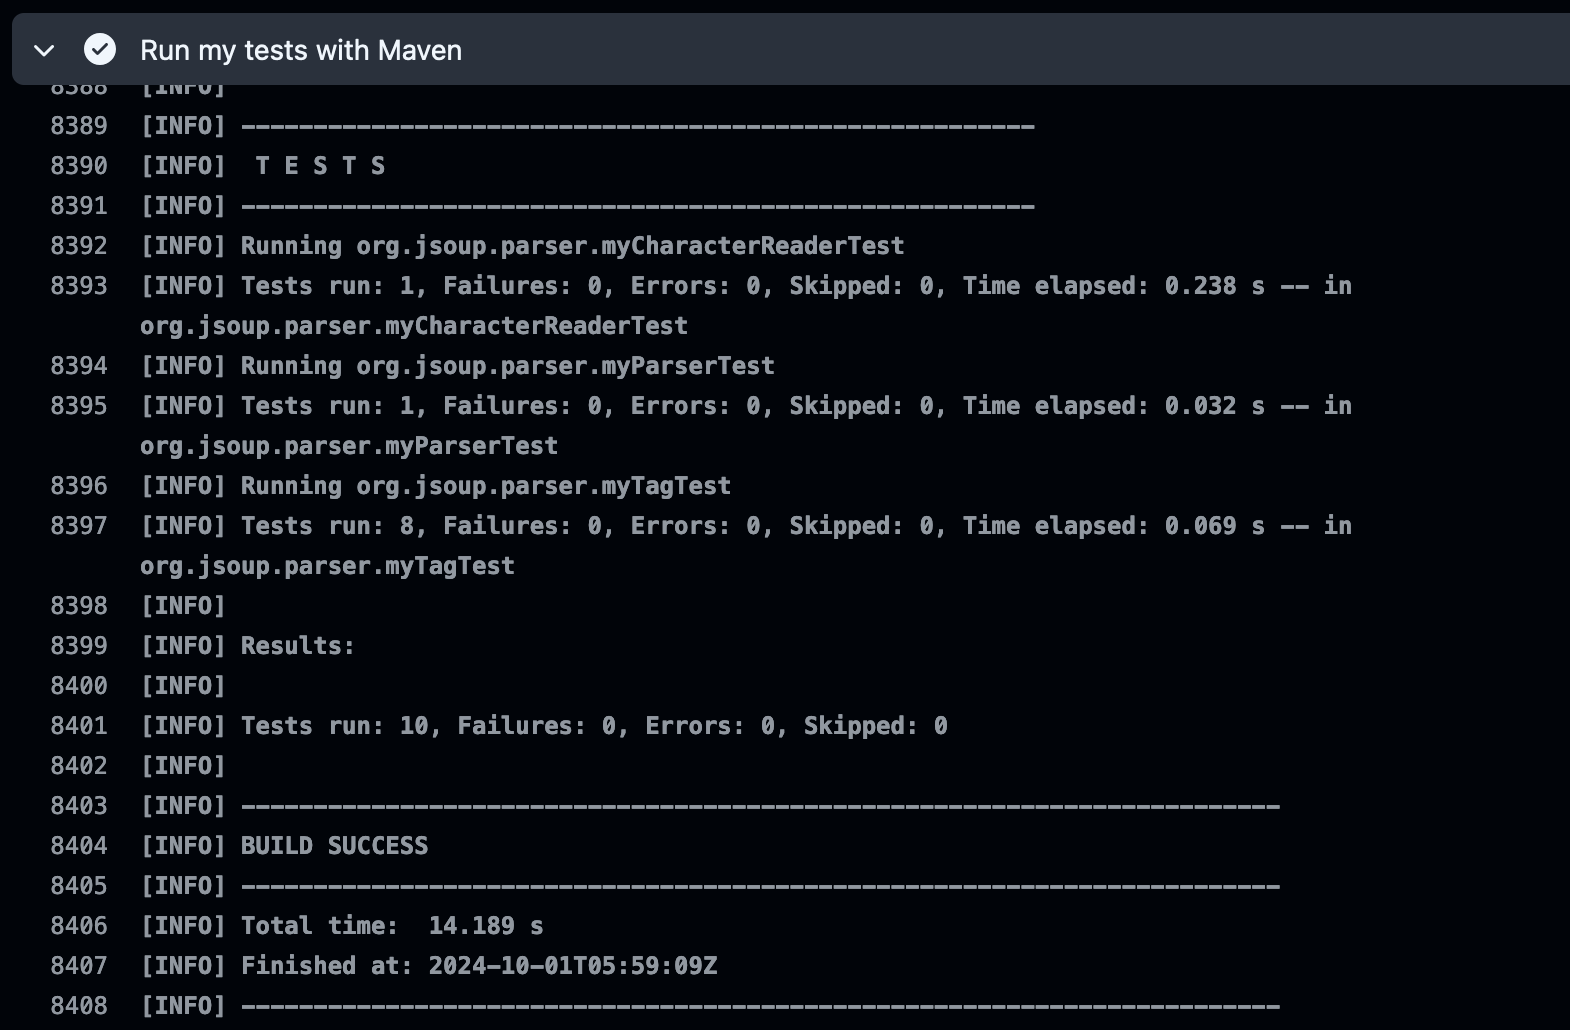
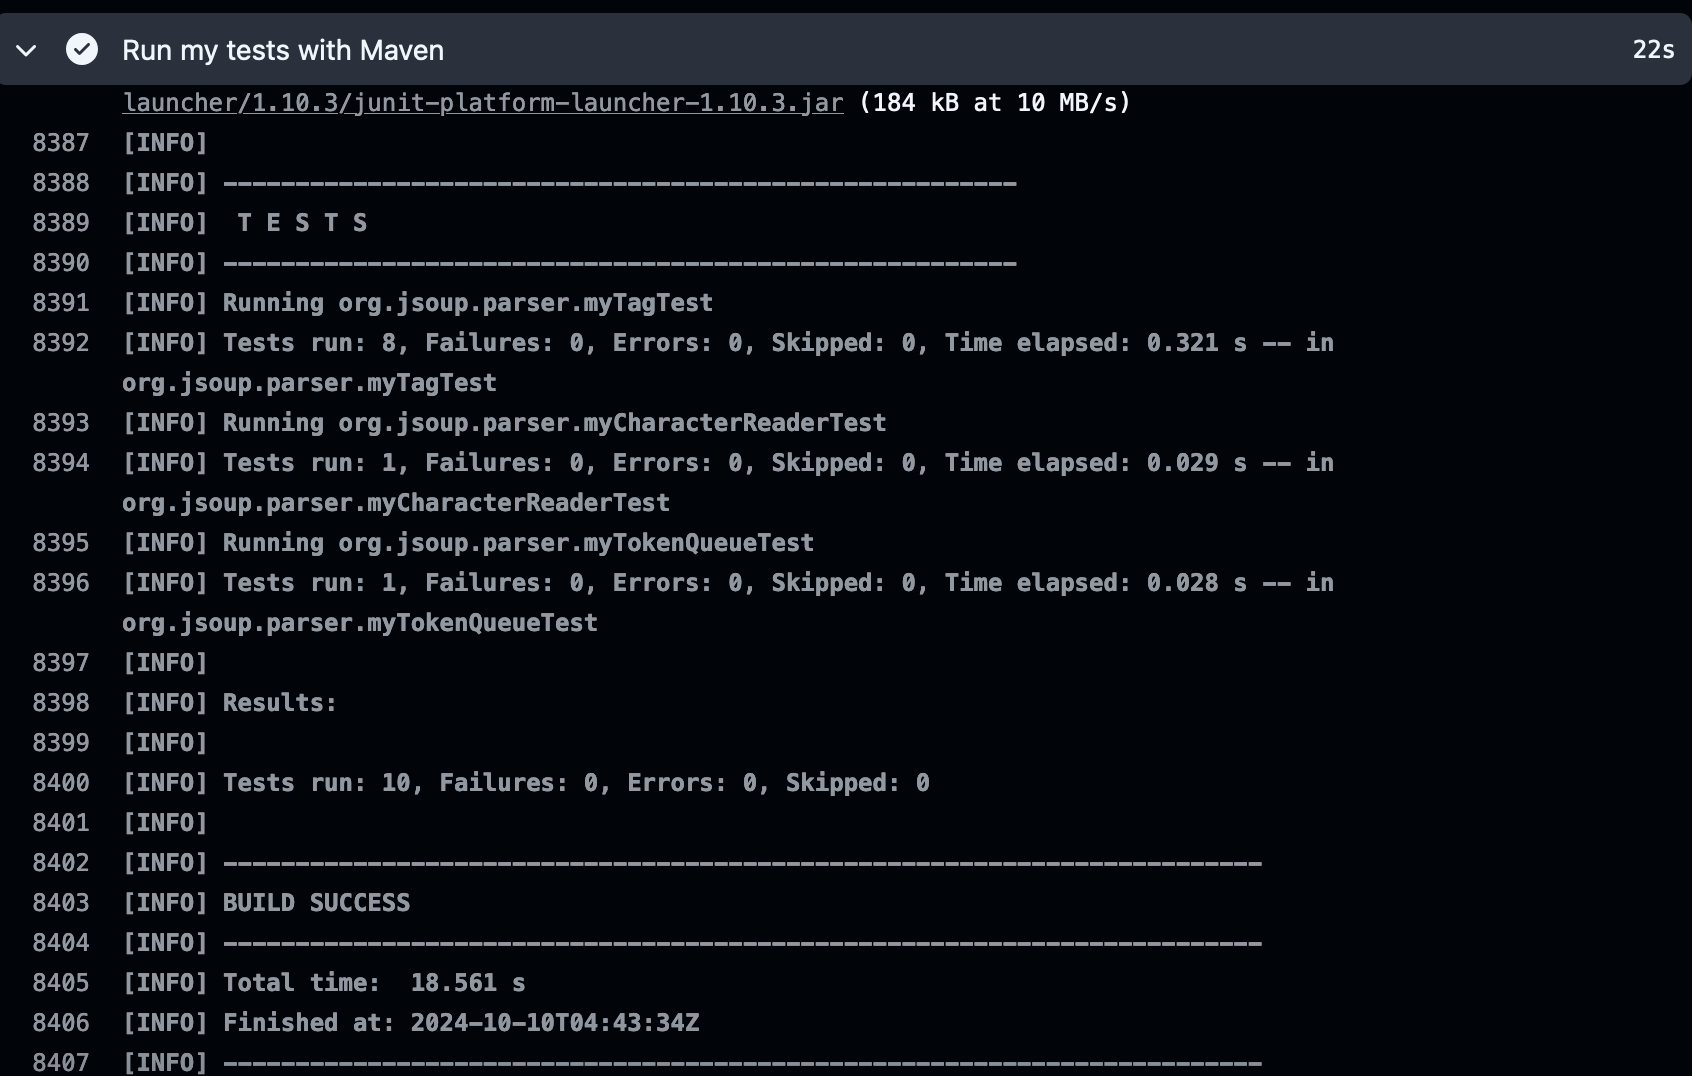
vf1

diff --git a/IFT3913_yongkang_wanting/readme.md b/IFT3913_yongkang_wanting/readme.md
@@ -5,7 +5,9 @@
 - [Test#1](#test1)
 - [Test#2-9](#test2a9)
 - [Test#10](#test10)
-
+- [Github action statistique](#Github-action-statistiques)
+- [Couverture a partir de jacoco](#Couverture-final-a-partir-de-jacoco)
+- [Amelioration de couverture](#Couverture-amelioration)
 
 ---
 # Test1
@@ -40,8 +42,8 @@ vérification, le test échouera, signalant qu'un comportement attendu a été a
   
 ## Couverture 
 
-- avant notre test ![image avant test](assets/methodeCloseAvant.png)
-- apres notre test ![image apres test](assets/methodeCloseApres.png)
+- avant notre test ![couverture sur close avant test](assets/methodeCloseAvant.png)
+- apres notre test ![couverture sur close apres test](assets/methodeCloseApres.png)
 
 
 
@@ -108,8 +110,8 @@ la méthode `equals()` prend en compte toutes les différences pertinentes entre
 
 ## Couverture
 
-- avant nos tests ![image avant test](assets/methodeEqualsAvant.png)
-- apres nos tests ![image apres test](assets/methodeEqualsApres.png)
+- avant nos tests ![couverture sur Equals avant test](assets/methodeEqualsAvant.png)
+- apres nos tests ![couverture sur Equals apres test](assets/methodeEqualsApres.png)
 
 
 
@@ -131,16 +133,30 @@ Le test particulier pour la branche `if (isEmpty())return false;` est documenté
 
 ## Couverture
 
-- avant nos tests ![image avant test](assets/methodeMatchesAnyAvant.png)
-- apres nos tests ![image apres test](assets/methodeTokenQueueApres.png)
+- avant nos tests ![couverture sur matchesAny avant test](assets/methodeMatchesAnyAvant.png)
+- apres nos tests ![couverture sur matchesAny apres test](assets/methodeMatchesAnyApres.png)
+
+
+
 
 
 ---
-# Couverture final 
+# Github action statistiques
+
+- avant nos tests ![image sur la reussir des tests avant nos tests](assets/githubStatistiquesToutTestsAvant.png)
+
+- mes tests ![image sur la reussir de mes tests](assets/githubStatistiquesMyTestsApres.png)
+- Tous les tests ![image sur la reussir de tous les tests](assets/githubStatistiquesToutTestsApres.png)
+
+
+
+---
+# Couverture final a partir de jacoco
 
 - avant nos tests ![image avant les tests](assets/jacocoCoverageInitiale.png)
 - apres nos tests ![image apres les tests](assets/jacocoCoverageFinal.png)
 
-
-
+---
+# Couverture amelioration
+Coverage apres nos tests ![image du coverage apres nos tests](assets/githubStatistiquesCoverage.png)
 
